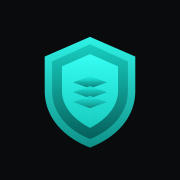
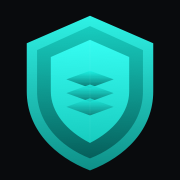
The home-screen shield fills its tile as other apps' marks do (#551)
Drawn at 176px on the 180px tile, not 126px: the shield stands about
seven eighths of the tile, not three fifths. The icon is fingerprinted
with the CSS and JS, so a redrawn one has a URL of its own: at one URL,
a phone adding the app got the old drawing back from its cache for an
hour. The dev build watcher rebuilds on a redrawn icon too, so the
manifest never names the old drawing.

diff --git a/tests/components/test_web_frontend.py b/tests/components/test_web_frontend.py
@@ -141,6 +141,7 @@ class TestAssetFingerprinting:
         (tmp_path / "js" / "app.js").write_text("console.log(1)")
         (tmp_path / "js" / "pages" / "extra.js").write_text("console.log(2)")
         (tmp_path / "dist" / "app.css").write_text(".x{}")
+        (tmp_path / "app-icon.png").write_bytes(b"png")
 
         monkeypatch.setattr(build_mod, "STATIC_DIR", tmp_path)
         monkeypatch.setattr(build_mod, "DIST_DIR", tmp_path / "dist")
@@ -160,6 +161,17 @@ class TestAssetFingerprinting:
         assert re.fullmatch(r"dist/app-[0-9a-f]{8}\.css", manifest["dist/app.css"])
         for built in manifest.values():
             assert (static_tree / built).is_file(), built
+
+    def test_a_redrawn_home_screen_icon_has_a_url_of_its_own(
+        self, static_tree: Path
+    ) -> None:
+        """A phone adding the app fetches the icon; at one URL a cached copy
+        of the old drawing came back for an hour after a redraw."""
+        from app.components.web_frontend.build import build_assets
+
+        assert re.fullmatch(
+            r"dist/app-icon-[0-9a-f]{8}\.png", build_assets()["app-icon.png"]
+        )
 
     def test_globs_nested_sources_without_a_list_to_maintain(
         self, static_tree: Path
@@ -240,6 +252,15 @@ class TestBuildWatchSourceFilter:
         assert _is_source(str(STATIC_DIR / "dist" / "app.css"))
         assert _is_source(str(STATIC_DIR / "css" / "app.css"))
         assert _is_source(str(STATIC_DIR / "js" / "app.js"))
+
+    def test_reacts_to_a_redrawn_home_screen_icon(self) -> None:
+        """``make app-icon`` in dev: the manifest names the new drawing,
+        not the old one under a URL cached for a year."""
+        from app.components.web_frontend.build import APP_ICON, STATIC_DIR
+        from app.components.web_frontend.build_watch import _is_source, _watched_dirs
+
+        assert _is_source(str(STATIC_DIR / APP_ICON))
+        assert (STATIC_DIR, False) in _watched_dirs()
 
     def test_ignores_generated_output_and_noise(self) -> None:
         from app.components.web_frontend.build import STATIC_DIR

diff --git a/tests/web/test_phone.py b/tests/web/test_phone.py
@@ -12,7 +12,7 @@ import hashlib
 
 from fastapi import FastAPI
 from fastapi.testclient import TestClient
-from PIL import Image
+from PIL import Image, ImageChops
 from starlette.requests import Request
 
 from app.components.web_frontend.assets import APP_ICON, STATIC_DIR
@@ -78,6 +78,17 @@ class TestHomeScreen:
         with Image.open(STATIC_DIR / APP_ICON) as icon:
             corner = "#" + icon.convert("RGB").tobytes()[:3].hex().upper()
         assert corner == icon_ground().upper(), "the page ground changed: make app-icon"
+
+    def test_the_shield_fills_the_icon_as_other_apps_do(self) -> None:
+        """Beside a bank's icon, whose mark fills about four fifths of its
+        tile, a shield drawn at three fifths read as shrunk."""
+        with Image.open(STATIC_DIR / APP_ICON) as icon:
+            drawn = icon.convert("RGB")
+        ground = Image.new("RGB", drawn.size, drawn.getpixel((0, 0)))
+        box = ImageChops.difference(drawn, ground).getbbox()
+        assert box is not None, "the icon is all ground"
+        _, top, _, bottom = box
+        assert bottom - top >= 0.85 * drawn.height
 
     def test_the_status_bar_has_a_color_to_follow(self, client: TestClient) -> None:
         """app.js sets it from the page's own background, so the bar

diff --git a/app/components/web_frontend/build_watch.py b/app/components/web_frontend/build_watch.py
@@ -26,6 +26,7 @@ from watchdog.events import FileSystemEvent, FileSystemEventHandler
 from watchdog.observers.polling import PollingObserver
 
 from app.components.web_frontend.build import (
+    APP_ICON,
     SOURCE_TREES,
     STATIC_DIR,
     TAILWIND_OUTPUT,
@@ -63,7 +64,7 @@ def _is_source(raw_path: str) -> bool:
         rel = Path(raw_path).resolve().relative_to(STATIC_DIR.resolve())
     except (ValueError, OSError):
         return False
-    if rel.as_posix() == TAILWIND_OUTPUT:
+    if rel.as_posix() in (TAILWIND_OUTPUT, APP_ICON):
         return True
     if not rel.parts or rel.parts[0] == "dist":
         return False
@@ -79,8 +80,9 @@ def _watched_dirs() -> list[tuple[Path, bool]]:
     The source trees are watched recursively so a newly added file is
     picked up without restarting. ``dist/`` is watched shallowly and only
     for the Tailwind output; its subdirectories hold generated copies.
+    ``static/`` itself is watched shallowly for the home-screen icon.
     """
-    dirs: list[tuple[Path, bool]] = []
+    dirs: list[tuple[Path, bool]] = [(STATIC_DIR, False)]
     for subdir, _ in SOURCE_TREES:
         path = STATIC_DIR / subdir
         if path.is_dir():

diff --git a/app/components/web_frontend/build.py b/app/components/web_frontend/build.py
@@ -34,6 +34,9 @@ MANIFEST_PATH = DIST_DIR / "manifest.json"
 # Tailwind's compiled output. It already lives in dist/, so its
 # fingerprinted copy sits next to the original rather than nesting.
 TAILWIND_OUTPUT = "dist/app.css"
+# What a phone adds to its home screen (``make app-icon``): a redrawn icon
+# gets a URL of its own, not the old drawing from a cache.
+APP_ICON = "app-icon.png"
 
 # Directories scanned for assets, and the extension each holds. Add a file
 # to one and it is fingerprinted automatically; no list to keep in sync.
@@ -59,6 +62,8 @@ def iter_sources() -> list[tuple[str, str]]:
 
     if (STATIC_DIR / TAILWIND_OUTPUT).is_file():
         sources.append((TAILWIND_OUTPUT, "dist/app-{hash}.css"))
+    if (STATIC_DIR / APP_ICON).is_file():
+        sources.append((APP_ICON, "dist/app-icon-{hash}.png"))
 
     for subdir, suffix in SOURCE_TREES:
         root = STATIC_DIR / subdir

diff --git a/app/components/web_frontend/assets.py b/app/components/web_frontend/assets.py
@@ -13,12 +13,13 @@ from typing import Any
 from fastapi.staticfiles import StaticFiles
 from starlette.responses import FileResponse
 
+from app.components.web_frontend.build import APP_ICON
+
 COMPONENT_DIR = Path(__file__).parent
 STATIC_DIR = COMPONENT_DIR / "static"
 MANIFEST_PATH = STATIC_DIR / "dist" / "manifest.json"
-# What a phone adds to its home screen: the icon (``make app-icon``) the
-# page and the manifest name, and the manifest's path. Template globals.
-APP_ICON = "app-icon.png"
+# What a phone adds to its home screen: the icon the page and the manifest
+# name, and the manifest's path. Template globals.
 WEB_MANIFEST = "/manifest.webmanifest"
 HOME_SCREEN = {"app_icon": APP_ICON, "web_manifest": WEB_MANIFEST}
 
